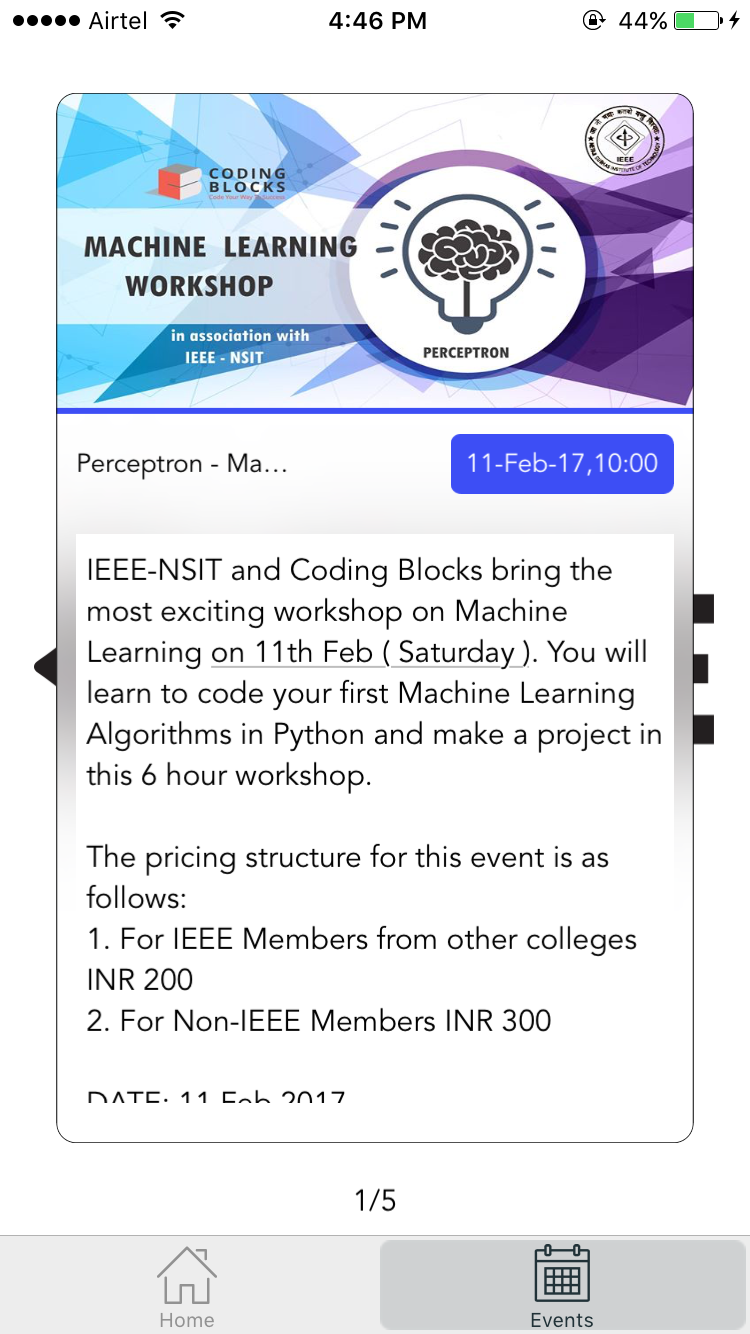
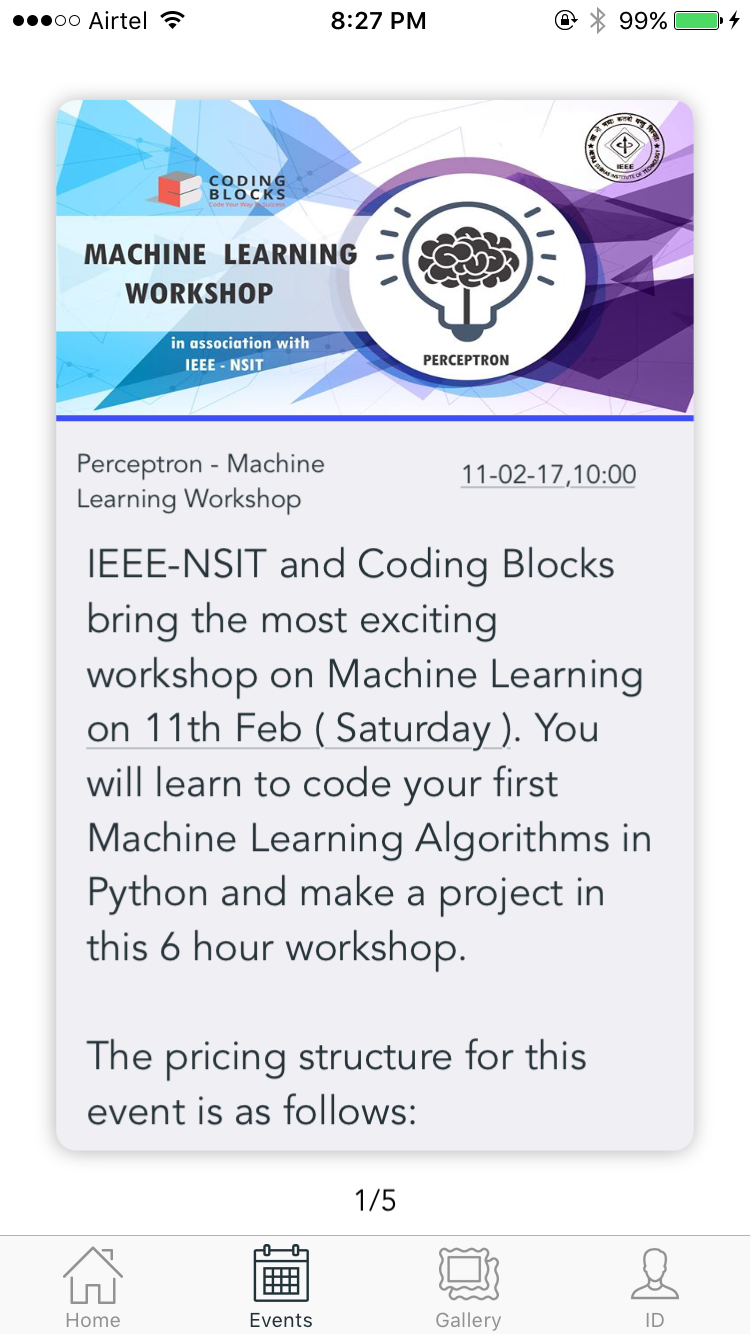
Done!

diff --git a/ieeeNSIT/eventsViewController.swift b/ieeeNSIT/eventsViewController.swift
@@ -18,7 +18,7 @@ class eventsViewController : UIViewController {
     var imageView = UIImageView()
     var textView = UITextView()
     var lineLabel = UILabel()
-    var dateLabel = UILabel()
+    var dateTextView = UITextView()
     var nameLabel = UILabel()
     var pan = UIPanGestureRecognizer()
     var count = Int()
@@ -74,6 +74,7 @@ class eventsViewController : UIViewController {
             {
                 self.count = count
                 self.events = events
+                self.mainView.isUserInteractionEnabled = false
                 
                 //show toasts
                 self.toast = SwapToastView("Swipe to view events!", UIColor(red : 61/255, green : 78/255, blue : 245/255, alpha : 1), UIColor.white, 2, completion: {
@@ -81,6 +82,7 @@ class eventsViewController : UIViewController {
                     self.toast.removeFromSuperview()
                     self.toast = SwapToastView("Pull down to refresh!", UIColor(red : 61/255, green : 78/255, blue : 245/255, alpha : 1), UIColor.white, 2, completion: {
                         
+                        self.mainView.isUserInteractionEnabled = true
                         self.toast.removeFromSuperview()
                         self.spinner.stopAnimating()
                         self.displayEvent(self.index, completionHandler: {
@@ -178,31 +180,36 @@ class eventsViewController : UIViewController {
         }
         self.mainView.addSubview(self.imageView)
         self.mainView.backgroundColor = UIColor.groupTableViewBackground
-//        self.mainView.backgroundColor = UIColor.white
 
         self.lineLabel = UILabel(frame: CGRect(x: 0, y: self.imageView.frame.maxY, width: self.mainView.frame.width, height: 3))
         self.lineLabel.backgroundColor = getColor(red: 61, green: 78, blue: 245)
         self.mainView.addSubview(self.lineLabel)
 
-        self.dateLabel = UILabel(frame: CGRect(x: 0.65*self.mainView.bounds.width - 10, y: self.lineLabel.frame.maxY+10, width: self.mainView.bounds.width * 0.35, height: 40))
+        self.dateTextView = UITextView(frame: CGRect(x: 0.65*self.mainView.bounds.width - 10, y: self.lineLabel.frame.maxY+10, width: self.mainView.bounds.width * 0.35, height: 40))
         let date = self.events[self.index]["start_time"] as! String
+        self.dateTextView.backgroundColor = UIColor.clear
+        self.dateTextView.textAlignment = .center 
         let dateFormatter = DateFormatter()
         dateFormatter.dateFormat = "yyyy-MM-dd'T'HH:mm:ssZZZZ"
         let newDate = dateFormatter.date(from: date)
         dateFormatter.dateFormat = "dd-MM-yy,HH:mm"
         dateFormatter.amSymbol = "AM"
         dateFormatter.pmSymbol = "PM"
+        self.dateTextView.adjustsFontForContentSizeCategory = true
+        self.dateTextView.isEditable = false
+        self.dateTextView.isScrollEnabled = false
+        self.dateTextView.dataDetectorTypes = .all
         let dateString = dateFormatter.string(from: newDate!)
-        self.dateLabel.textAlignment = .center
+        self.dateTextView.textAlignment = .center
         if let f = UIFont(name: "Avenir Book", size: 13)
         {
             let s = NSMutableAttributedString(string: "\(dateString)", attributes: [NSFontAttributeName : f])
-            self.dateLabel.attributedText = s
-            self.dateLabel.textColor = getColor(red: 37, green: 50, blue: 55)
+            self.dateTextView.attributedText = s
+            self.dateTextView.textColor = getColor(red: 37, green: 50, blue: 55)
         }
-        self.dateLabel.layer.cornerRadius = 5
-        self.dateLabel.clipsToBounds = true
-        self.mainView.addSubview(self.dateLabel)
+        self.dateTextView.layer.cornerRadius = 5
+        self.dateTextView.clipsToBounds = true
+        self.mainView.addSubview(self.dateTextView)
         
         self.nameLabel = UILabel(frame: CGRect(x: 10, y: self.lineLabel.frame.maxY + 10, width: self.mainView.frame.width*0.50, height: 40))
         if let f = UIFont(name: "Avenir Book", size: 13)
@@ -217,7 +224,6 @@ class eventsViewController : UIViewController {
         
         self.textView = UITextView(frame: CGRect(x: 10, y: self.nameLabel.frame.maxY, width: self.mainView.bounds.width - 20, height: self.mainView.bounds.height - (self.nameLabel.frame.maxY + 5)))
         self.textView.backgroundColor = UIColor.groupTableViewBackground
-//        self.textView.backgroundColor = UIColor.white
         
         if let f = UIFont(name: "Avenir Book", size: 20)
         {
